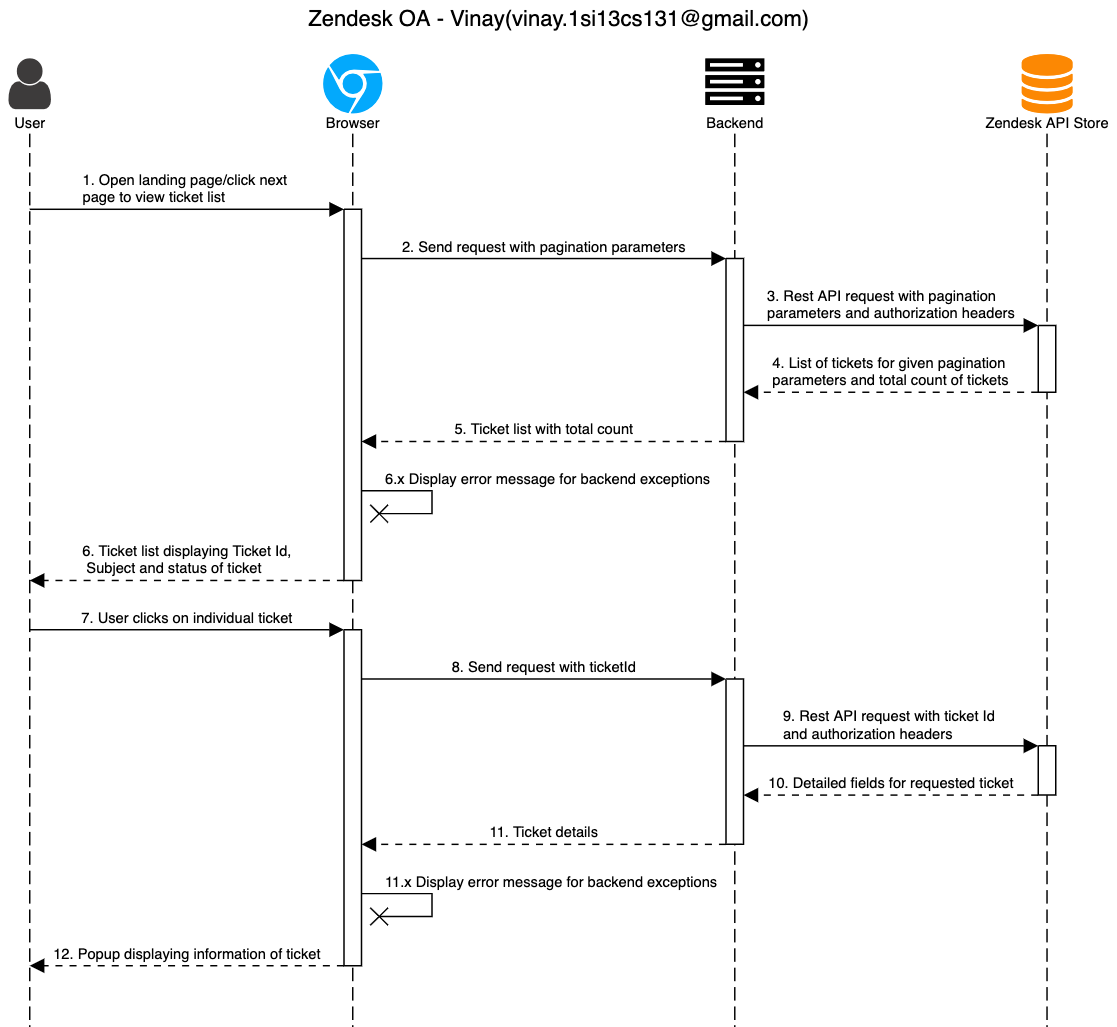
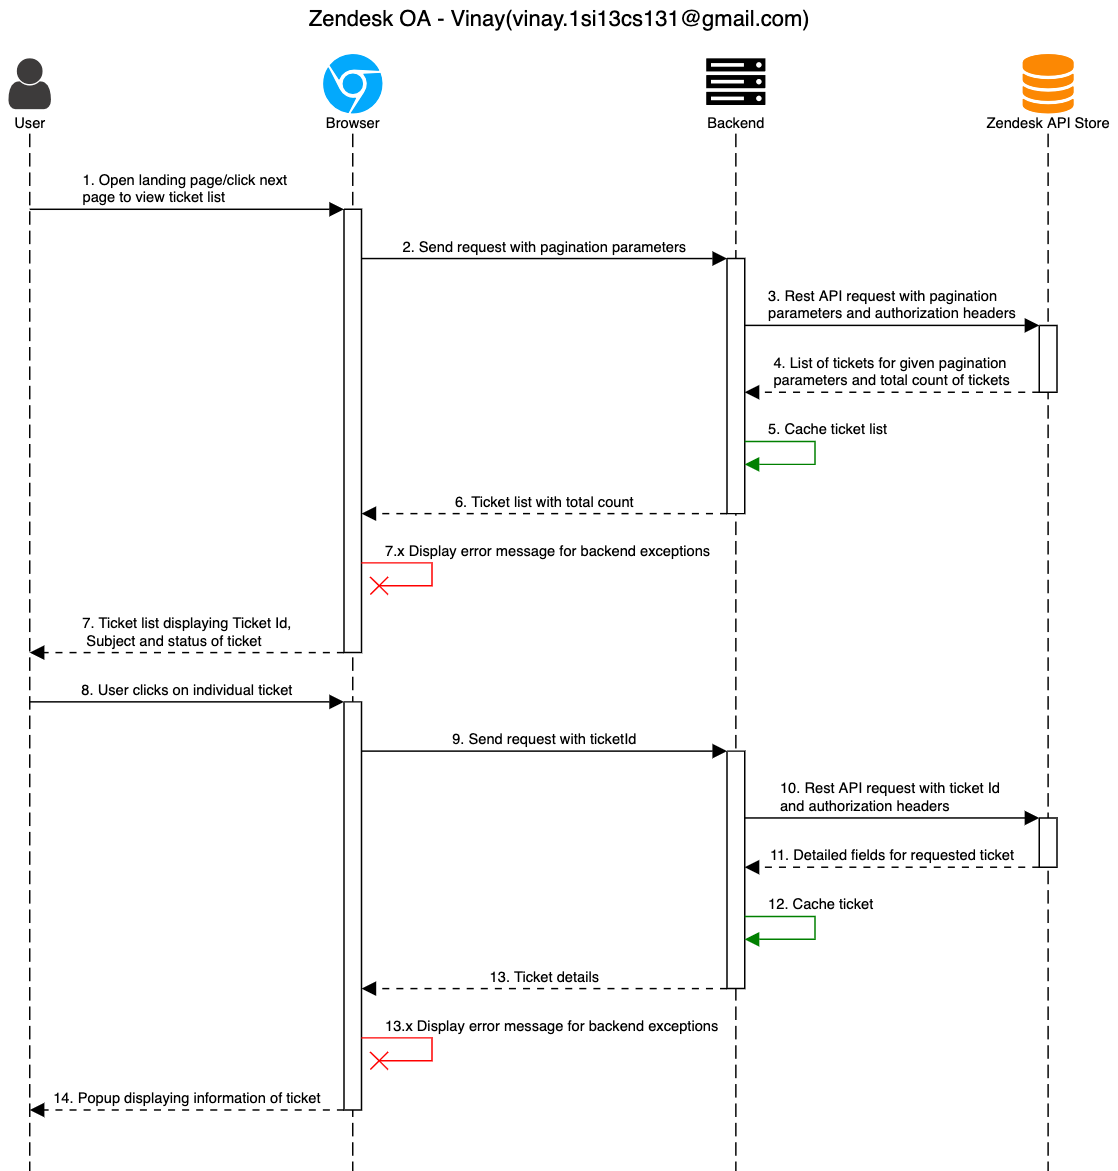
Updated design document

diff --git a/README.md b/README.md
@@ -3,18 +3,19 @@
 1. [Features. ](#feats)
 2. [System Requirements. ](#reqs)
 3. [Instructions to run application. ](#runapp)
-4. [Technology stack. ](#stack)
-5. [High level design](#high_design)
-6. [Sequence diagram](#seq_diagram)
-7. [Unit test results](#junits)
-8. [Screenshots](#screenshots)
+4. [Sequence diagram](#seq_diagram)
+5. [High level component design](#high_design)
+6. [Implementation details. ](#implementation)
+7. [Technology stack. ](#stack)
+8. [Unit test results](#junits)
+9. [Screenshots](#screenshots)
 
 <a name="feats"></a>
 ## Features
     - User can view list of assigned tickets on browser.
-    - User can paginate accross requests if number of tickets are more than 25.
+    - User can paginate across tickets if number of tickets are more than 25.
     - User can click on each ticket to view details.
-    - User can change the number of records per page, default is set to 25 tickets per page.
+    - Default tickets per page is set to 25. But user can change it if required.
     - Appropriate error messages are displayed on UI in case of exceptions.
 
 <a name="reqs"></a>
@@ -32,20 +33,33 @@ mvn clean install
 java -jar target/vinay-0.0.1-SNAPSHOT.jar
 ```
 ### Instuctions to run UI
-    - Go to UI directory open index.html on Chrome browser
+    - Go to ui directory open index.html on Chrome browser
+
+<a name="seq_diagram"></a>
+## Sequence diagram
+![Alt text](images/design/sequence.png)
+
+<a name="high_design"></a>
+## High level component design
+![Alt text](images/design/component.png)
+
+<a name="implementation"></a>
+## Implementation details
+1. Using spring boot for rapid development of backend microservice within short duration.
+2. Used spring webclient for communication between microservice and Zendesk API.
+3. For authorization with Zendesk, I'm using API token. Zendesk URL and API token are stored as environment variables.
+4. Created 2 API for getting ticket list and individual ticket details.
+5. Used ehcache to store results for 600 seconds.
+6. Junit tests are written for both rest layer and service layer. Model and configs are ingored as of now.
+7. For displaying ticket list in UI I'm using simple and light weight bootstrap table. This table is paginated and user can change number of records per table.
+8. Individual ticket details are displayed as modal popup. Currently limited fields are displayed in UI, if required they can be changed without additional efforts.
+9. Screenshots of UI and test coverage are attached at the bottom.
 
 <a name="stack"></a>
 ## Technology stack
     - Languages: Java 8, Javascript, HTML/CSS
     - Frameworks: Springboot, ehcache
     - UI: Bootstrap table
-
-<a name="high_design"></a>
-## High level design
-
-<a name="seq_diagram"></a>
-## Sequence diagram
-![Alt text](images/design/sequence.png)
 
 <a name="junits"></a>
 ## Unit test results
